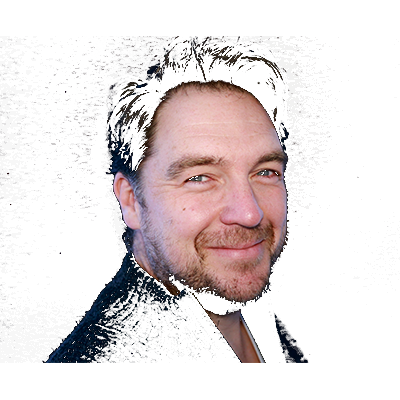
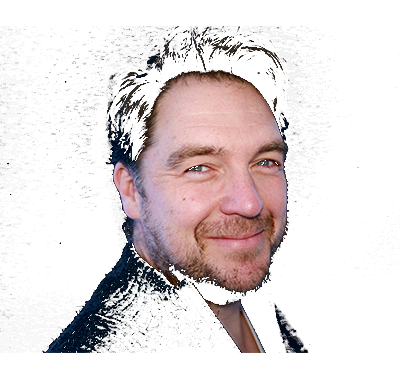
Team Styling
+ Image resizing
+ text colour & margins

diff --git a/team/index.html b/team/index.html
@@ -54,7 +54,7 @@
         </header>
 
         <section class="starshine header-buffer">
-            <div class="team-title">
+            <div class="team-title breathing-space">
                 <h2>
                     We're a team of designers and engineers dedicated to developing technology platforms that tackle grand challenges
                 </h2>
@@ -66,10 +66,10 @@
 
             <div class="content-80">
                 <div class="team-bios pure-g">
-                    <div class="pure-u-1-3 team-headshots">
+                    <div class="pure-u-1-4 team-headshots">
                         <img src="../img/team/james.png"/>
                     </div>
-                    <div class="pure-u-2-3 team-bio">
+                    <div class="pure-u-3-4 team-bio">
                         <h3>James Parr</h3>
                         <h5>Co-Founder and CEO</h5>
                         <p>
@@ -79,10 +79,10 @@
                             As well as his experience in hardware and software, he brings deep expertise in systems thinking, financial innovation, collaboration and partnerships to the task of tackling our current era of grand challenges.
                         </p>
                     </div>
-                    <div class="pure-u-1-3 team-headshots">
+                    <div class="pure-u-1-4 team-headshots">
                         <img src="../img/team/jordan.png"/>
                     </div>
-                    <div class="pure-u-2-3 team-bio">
+                    <div class="pure-u-3-4 team-bio">
                         <h3>Jordan Mcrae</h3>
                         <h5>Co-Founder and CTO</h5>
                         <p>
@@ -92,10 +92,10 @@
                             From distributed space robots, to inventing new forms of wind energy harvesting for developing countries, and Artificial Intelligence technologies for Ocean Conservation Jordan is continuously intrigued by the convergence of invention, engineering, and systemic design and intelligence.  
                         </p>
                     </div>
-                    <div class="pure-u-1-3 team-headshots">
+                    <div class="pure-u-1-4 team-headshots">
                         <img src="../img/team/jon.png"/>
                     </div>
-                    <div class="pure-u-2-3 team-bio">
+                    <div class="pure-u-3-4 team-bio">
                         <h3>Jon Rushton</h3>
                         <h5>Product Designer</h5>
                         <p>
@@ -106,10 +106,10 @@
                             Inspired by design and craft from a young age (thanks to the Weta Workshop Lord of the Rings documentaries), Jon continues this passion as a 3D printing enthusiast.
                         </p>
                     </div>
-                    <div class="pure-u-1-3 team-headshots">
+                    <div class="pure-u-1-4 team-headshots">
                         <img src="../img/team/leo.png"/>
                     </div>
-                    <div class="pure-u-2-3 team-bio">
+                    <div class="pure-u-3-4 team-bio">
                         <h3>Leo Silverberg</h3>
                         <h5>Interaction Designer</h5>
                         <p>
@@ -119,10 +119,10 @@
                             He recently graduated with a BSc in Digital Interaction Design from Duncan of Jordanstone College of Art and Design, where he spent four years learning and applying the user centered design process on projects tackling various social issues.
                         </p>
                     </div>
-                    <div class="pure-u-1-3 team-headshots">
+                    <div class="pure-u-1-4 team-headshots">
                         <img src="../img/team/eleanor.png"/>
                     </div>
-                    <div class="pure-u-2-3 team-bio">
+                    <div class="pure-u-3-4 team-bio">
                         <h3>Eleanor Harding</h3>
                         <h5>UX Designer</h5>
                         <p>

diff --git a/css/main.css b/css/main.css
@@ -716,15 +716,25 @@ p {
     color: #fff;
     font-weight: 400;
     font-size: 1.8em;
-    margin: 10px 0px;
+    margin: 5px 0px;
+}
+
+.team-bios h5 {
+    text-transform: uppercase;
+    color: #3481c5;
+    margin-top:0px;
 }
 
 .team-bios div {
     margin: 30px 0px 70px 0px;
 }
 
+.team-bios img {
+    width: 100%;
+}
+
 .emphasize {
-    color: cadetblue;
+    color: #3481c5;
     font-weight: 800;
 }
 
@@ -1331,6 +1341,10 @@ div.onscreen {
 
 }
 
+.breathing-space {
+    padding: 30px 0px 100px 0px;
+}
+
 .dark-bg h3 {
     margin-top: 0px;
 }
@@ -1364,7 +1378,7 @@ h1.future-where-text {
 
 .scroll-down {
     position: absolute;
-    bottom: 0;
+    bottom: -30px;
     left: 50%;
     width: 24px;
     height: 24px;
